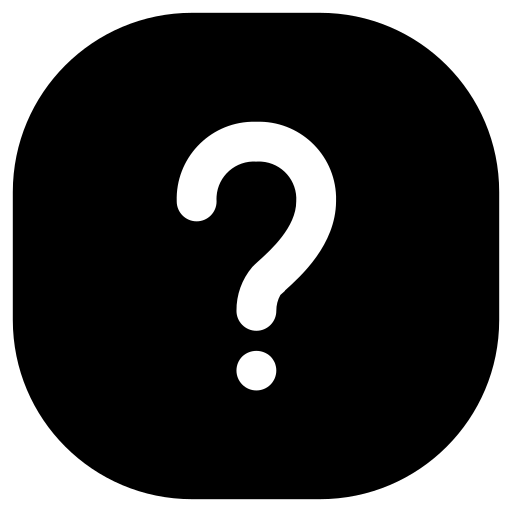
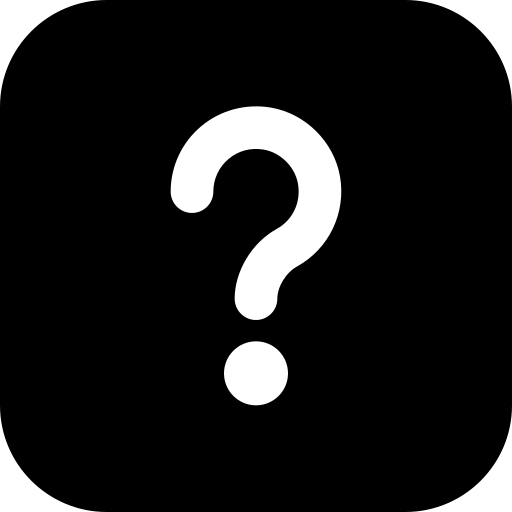
småfix i css

diff --git a/src/components/MainNav.tsx b/src/components/MainNav.tsx
@@ -13,34 +13,35 @@ const Navbar = () => {
         <ul className="nav">
           <li className="nav-item">
             <NavLink className="nav-link" to="/start">
-              <i className="fi fi-ts-house-chimney icon-mobile"></i> Startsida
+            <img className="menuIcon icon-mobile" src="\src\content\startsida.png"alt="Ikon på hus"/>
+            Startsida
             </NavLink>
           </li>
           <li className="nav-item">
             <NavLink className="nav-link" to="/herd">
-              <i className="fi fi-tr-cow-alt icon-mobile"></i> Besättning
+            <img className="menuIcon icon-mobile" src="\src\content\cow.png"alt="Ikon på ko"/>Besättning
             </NavLink>
           </li>
           <li className="nav-item">
             <NavLink className="nav-link nav-calender" to="/calender">
-              <i className="fi fi-ts-calendar-lines icon-mobile"></i> Kalender
+            <img className="menuIcon icon-mobile" src="\src\content\calender.png"alt="Ikon på almenacka"/> Kalender
             </NavLink>
           </li>
           <li className="nav-item">
             <NavLink className="nav-link" to="/handle">
-              <i className="fi fi-ts-pen-circle icon-mobile"></i>
+            <img className="menuIcon icon-mobile" src="\src\content\events.png"alt="Ikon på penna"/>
               Händelser
             </NavLink>
           </li>
           <li className="nav-item">
             <NavLink className="nav-link desktop-icon" aria-label="Mitt konto" to="/account">
-            <i className="fi fi-sr-portrait"></i>
+            <img className="menuIcon" src="\src\content\account.png"alt="Ikon på porträtt"/>
            </NavLink> 
            </li>
         
           <li className="nav-item" >
             <NavLink className="nav-link desktop-icon" aria-label="Support" to="/help">
-              <i className="fi fi-sr-question-square"></i>
+            <img className="menuIcon" src="\src\content\question.png"alt="Ikon på frågetecken"/>
             </NavLink>
           </li>
           </ul>
@@ -50,13 +51,13 @@ const Navbar = () => {
             <ul>
           <li className="nav-item">
             <NavLink className="menyicon m-3" aria-label="Mitt konto" to="/account">
-              <i className="fi fi-sr-portrait"></i>
+            <img className="menuIcon" src="\src\content\account.png"alt="Ikon på porträtt"/>
             </NavLink>
           </li>
           {/**Icon for ? (support, contact) */}
           <li className="nav-item">
             <NavLink className="menyicon m-3" to="/help" aria-label="Support" >
-              <i className="fi fi-sr-question-square"></i>
+            <img className="menuIcon" src="\src\content\question.png"alt="Ikon på frågetecken"/>
             </NavLink>
           </li>
           </ul>

diff --git a/index.html b/index.html
@@ -4,9 +4,7 @@
     <meta charset="UTF-8" />
     <meta name="viewport" content="width=device-width, initial-scale=1.0" />
     <meta name="description" content="Besättningar, djur och händelser för nötkreatur i Växas applikation MinGård">
-    <link rel='stylesheet' href='https://cdn-uicons.flaticon.com/2.3.0/uicons-thin-straight/css/uicons-thin-straight.css'>
-    <link rel='stylesheet' href='https://cdn-uicons.flaticon.com/2.3.0/uicons-thin-rounded/css/uicons-thin-rounded.css'>
-    <link rel='stylesheet' href='https://cdn-uicons.flaticon.com/2.3.0/uicons-solid-rounded/css/uicons-solid-rounded.css'>
+  
     <link rel="icon" type="image/x-icon" href='/src/content/favico.ico'>
     <title>MinGård</title>
   </head>

diff --git a/src/main.css b/src/main.css
@@ -37,6 +37,10 @@ a {
     color: #75160e;
 }
 
+.menuIcon{
+    width: 1.6em;
+}
+
 a:hover {
     color: #370c0c;
 }
@@ -425,7 +429,11 @@ tr .active {
     .icon-mobile {
         display: none;
     }
+    /* width on icons in menu */
 
+    .menuIcon{
+        width: 1em;
+    }
     /*article around animal info*/
     .detailsArticle {
         background-color: #fdf4ee;
@@ -640,6 +648,10 @@ tr .active {
     .icon-mobile {
         display: flex;
         margin: auto;
+    }
+
+    .menuIcon{
+       margin-bottom: 0.5em;
     }
 
     .handleWidth {
